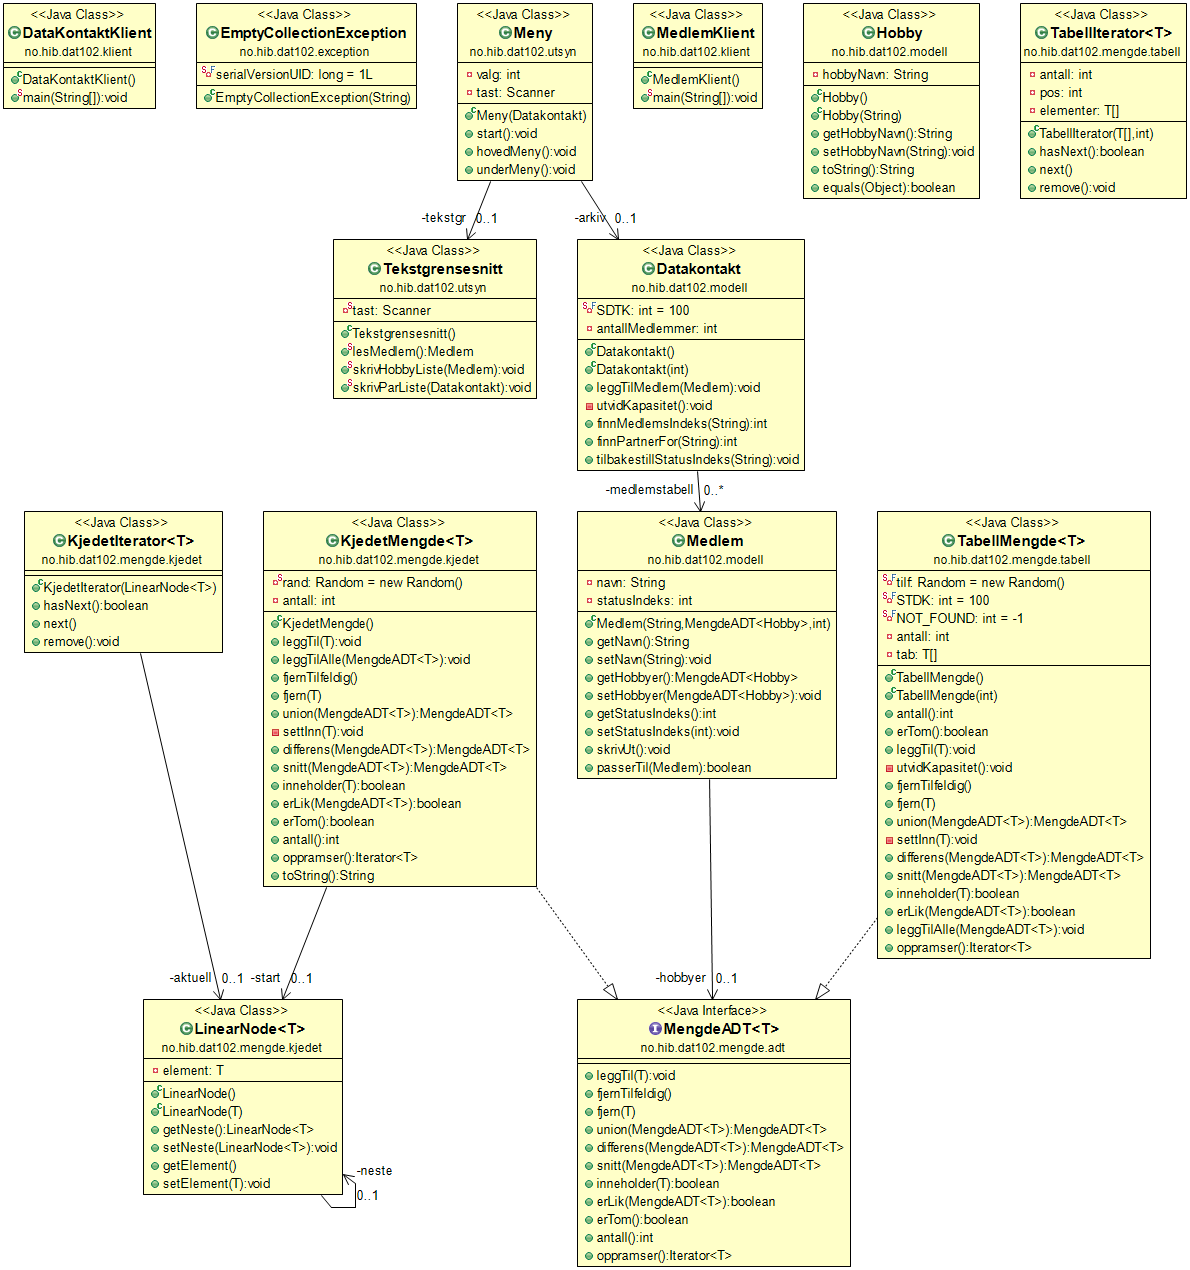
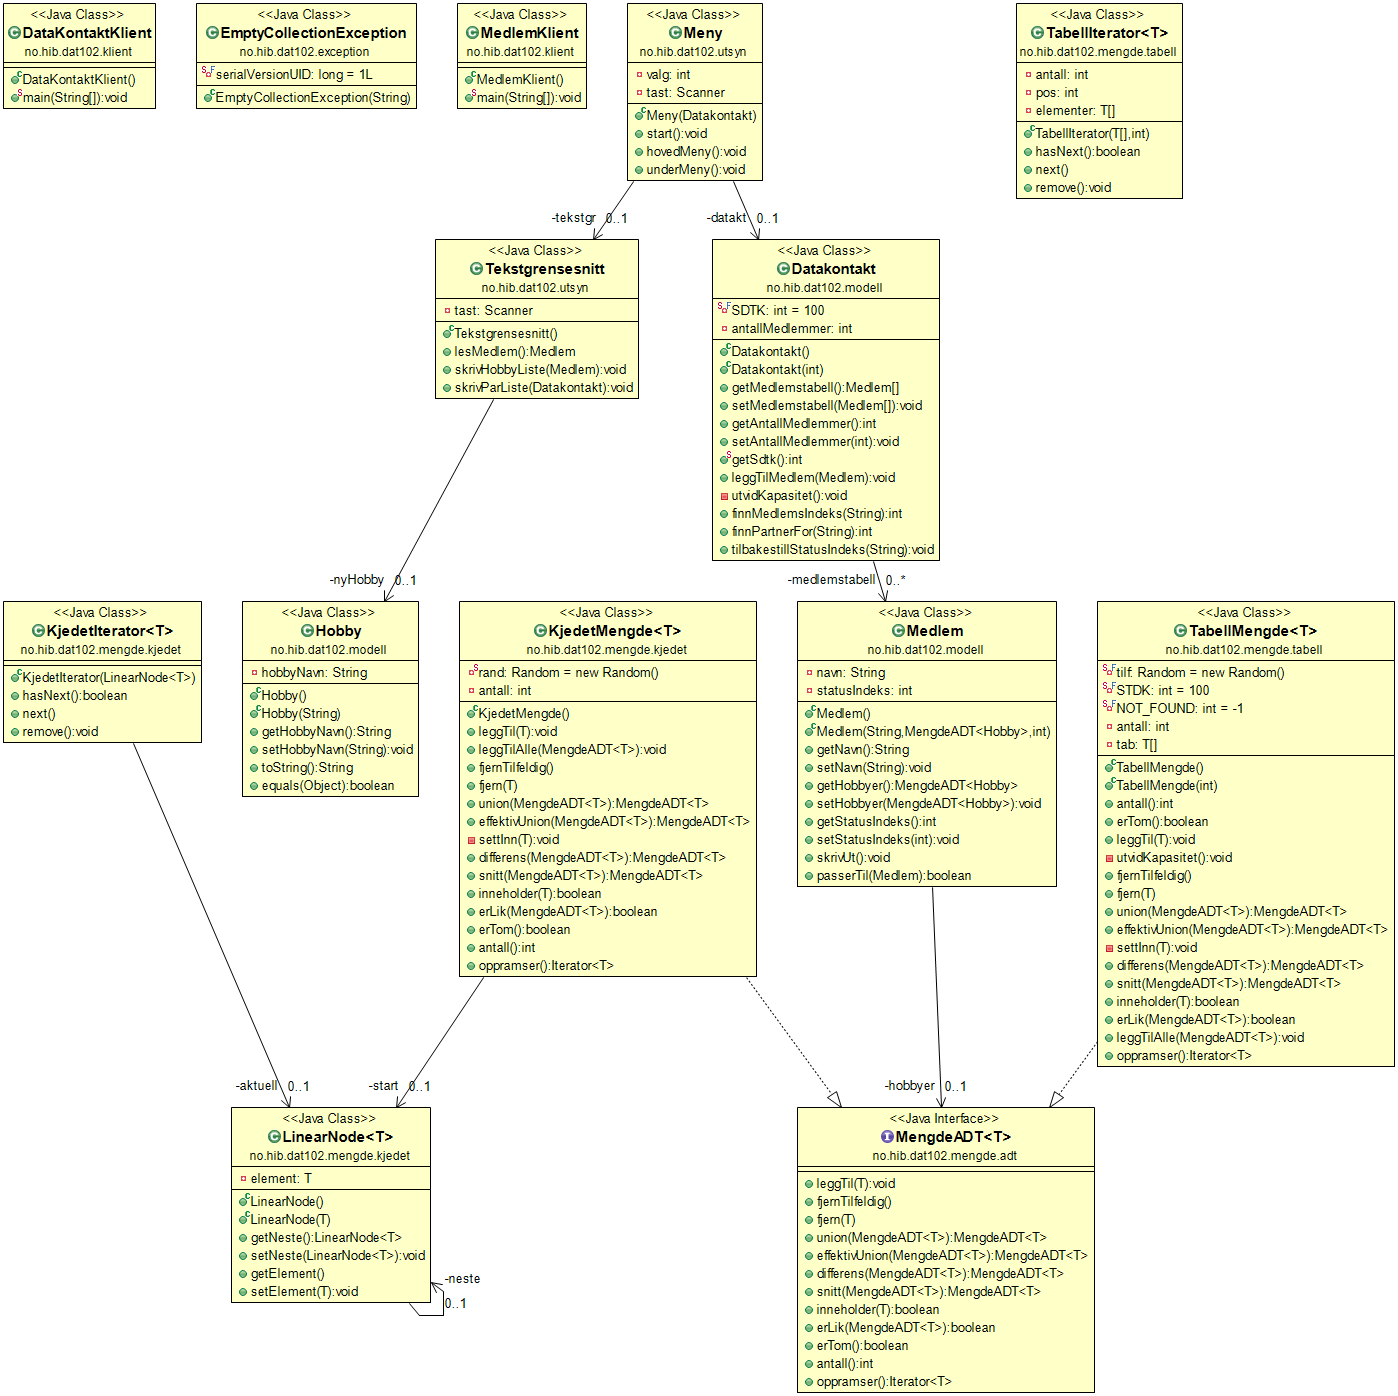
V.0.2.0

diff --git a/Ex03 - Datakontaktfirma/src/no/hib/dat102/modell/Datakontakt.java b/Ex03 - Datakontaktfirma/src/no/hib/dat102/modell/Datakontakt.java
@@ -109,13 +109,16 @@ public class Datakontakt {
 	 * @return Indeks til partner, ellers -1.
 	 */
 	public int finnPartnerFor(String medlemsnavn) {
-		int pos = -1;
-		for (int i = 0; (i < antallMedlemmer) && (pos == -1); i++) {
-			if (medlemstabell[i].getNavn().equals(medlemsnavn)) {
-				pos = i;
+		int medlemsIndeks = finnMedlemsIndeks(medlemsnavn);
+		int matchIndeks = -1;
+		for(int i = 0; i < medlemstabell.length && matchIndeks < 0; i++) {
+			if(medlemstabell[medlemsIndeks].passerTil(medlemstabell[i])) {
+				medlemstabell[medlemsIndeks].setStatusIndeks(i);
+				medlemstabell[i].setStatusIndeks(medlemsIndeks);
+				matchIndeks = i;
 			}
 		}
-		return pos;
+		return matchIndeks;
 	}
 
 	/**
@@ -127,6 +130,12 @@ public class Datakontakt {
 	 *            Medlemsnavn
 	 */
 	public void tilbakestillStatusIndeks(String medlemsnavn) {
+		int medlemsIndex = finnMedlemsIndeks(medlemsnavn);
+		int matchIndex = finnPartnerFor(medlemsnavn);
 
+		if (matchIndex > -1 && medlemsIndex > -1) {
+			medlemstabell[medlemsIndex].setStatusIndeks(-1);
+			medlemstabell[matchIndex].setStatusIndeks(-1);
+		}
 	}
 }

diff --git a/Ex03 - Datakontaktfirma/src/no/hib/dat102/utsyn/Tekstgrensesnitt.java b/Ex03 - Datakontaktfirma/src/no/hib/dat102/utsyn/Tekstgrensesnitt.java
@@ -55,7 +55,6 @@ public class Tekstgrensesnitt {
 	 *            Medlem
 	 */
 	public void skrivHobbyListe(Medlem medlem) {
-		System.out.println("Alle hobbyene ");
 		System.out.println(medlem.getHobbyer().toString());
 	}
 
@@ -69,6 +68,6 @@ public class Tekstgrensesnitt {
 	 *            Datakontakt arkiv som skal skrives ut
 	 */
 	public void skrivParListe(Datakontakt arkiv) {
-
+		System.out.println("ikke implimentert");
 	}
 }

diff --git a/Ex03 - Datakontaktfirma/src/no/hib/dat102/mengde/kjedet/KjedetMengde.java b/Ex03 - Datakontaktfirma/src/no/hib/dat102/mengde/kjedet/KjedetMengde.java
@@ -209,5 +209,16 @@ public class KjedetMengde<T> implements MengdeADT<T> {
 	public Iterator<T> oppramser() {
 		return new KjedetIterator<T>(start);
 	}
+	
+	public String toString() {
+		String resultat = "";
+		LinearNode<T> aktuell = start;
+		
+		while (aktuell != null) {
+			resultat += aktuell.getElement().toString() + "\t";
+			aktuell = aktuell.getNeste();
+		}
+		return resultat;
+	}
 
 }// class

diff --git a/Ex03 - Mengde/src/no/hib/dat102/mengde/kjedet/KjedetMengde.java b/Ex03 - Mengde/src/no/hib/dat102/mengde/kjedet/KjedetMengde.java
@@ -209,5 +209,16 @@ public class KjedetMengde<T> implements MengdeADT<T> {
 	public Iterator<T> oppramser() {
 		return new KjedetIterator<T>(start);
 	}
+	
+	public String toString() {
+		String resultat = "";
+		LinearNode<T> aktuell = start;
+		
+		while (aktuell != null) {
+			resultat += aktuell.getElement().toString() + "\t";
+			aktuell = aktuell.getNeste();
+		}
+		return resultat;
+	}
 
 }// class
